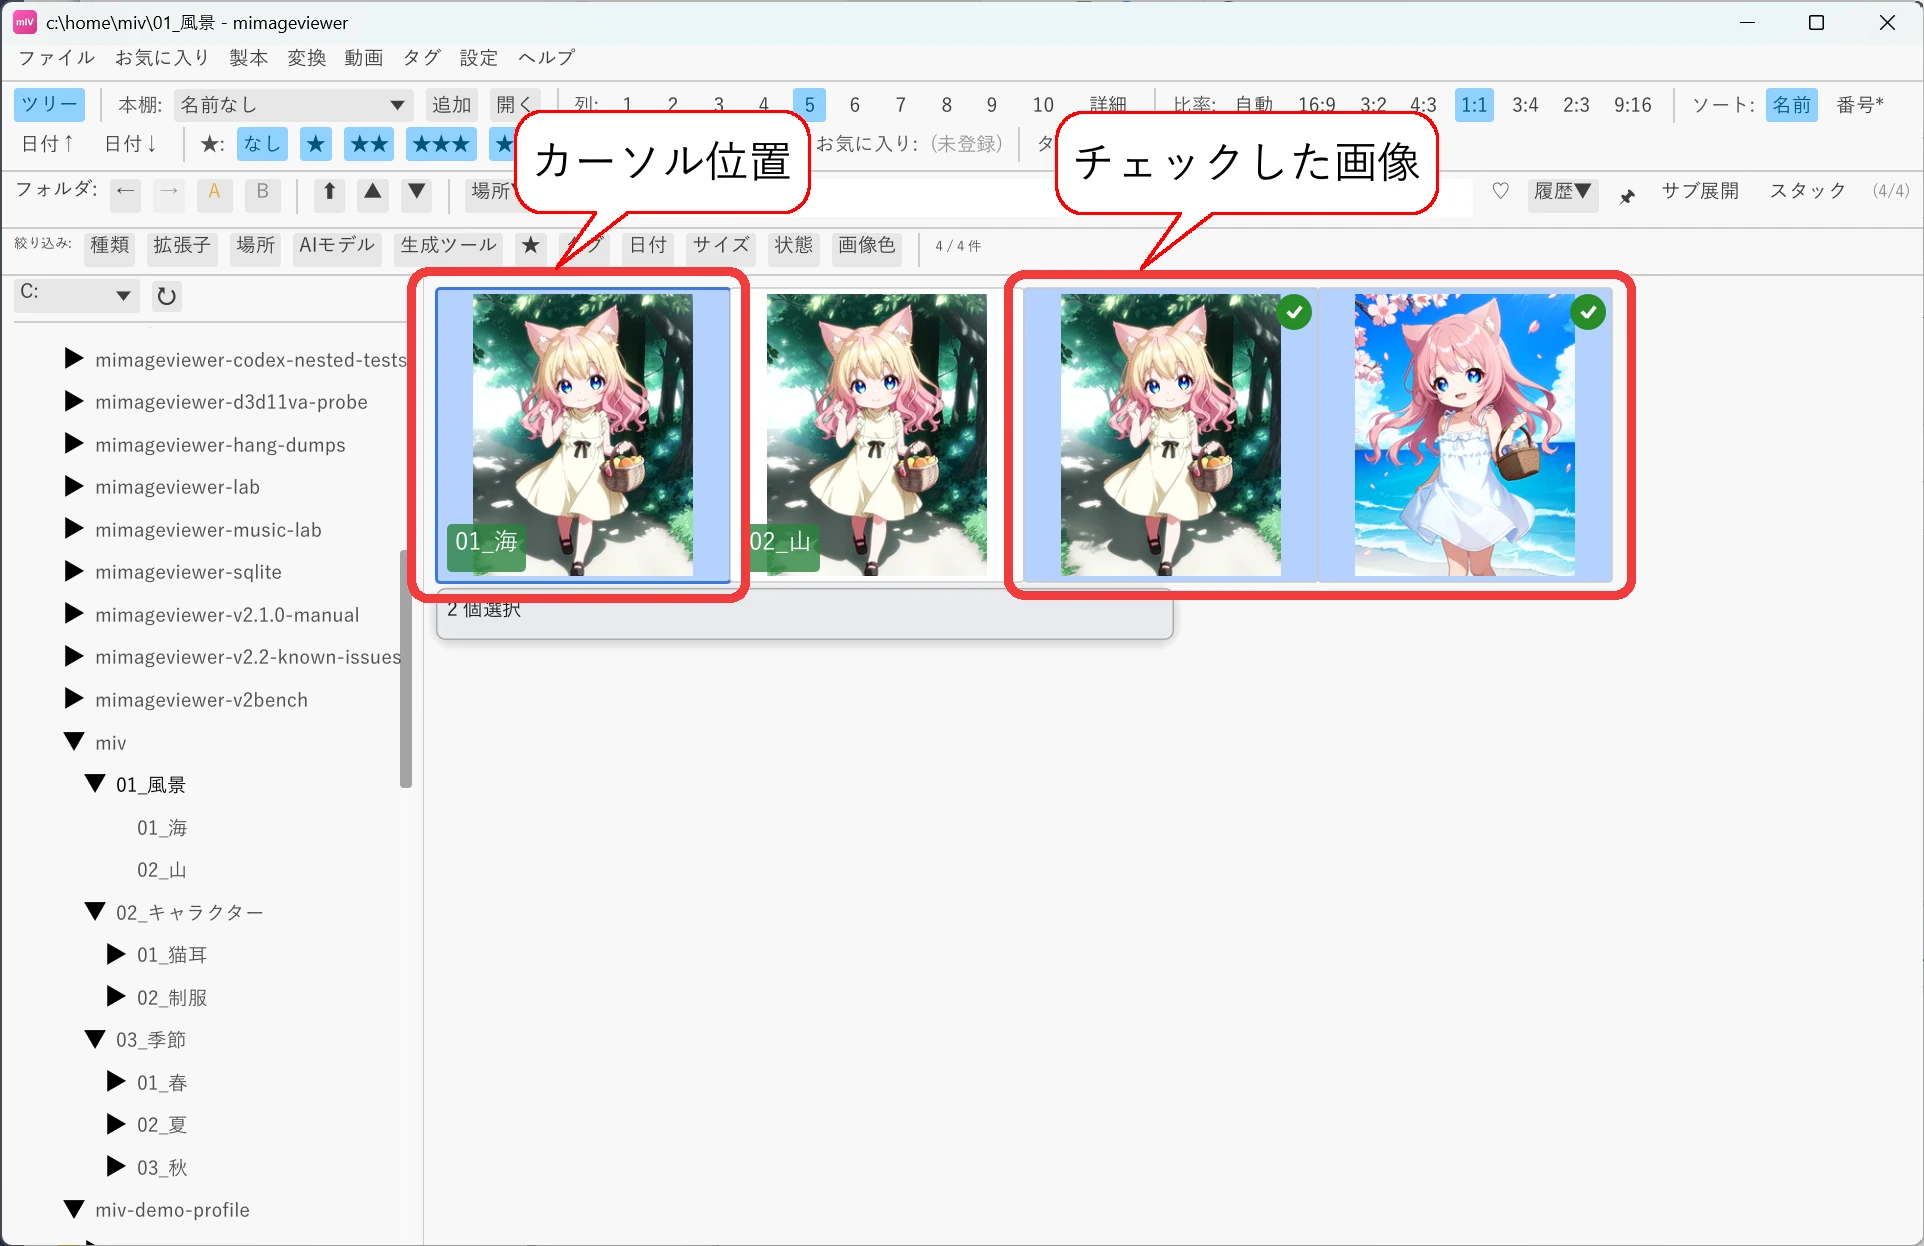
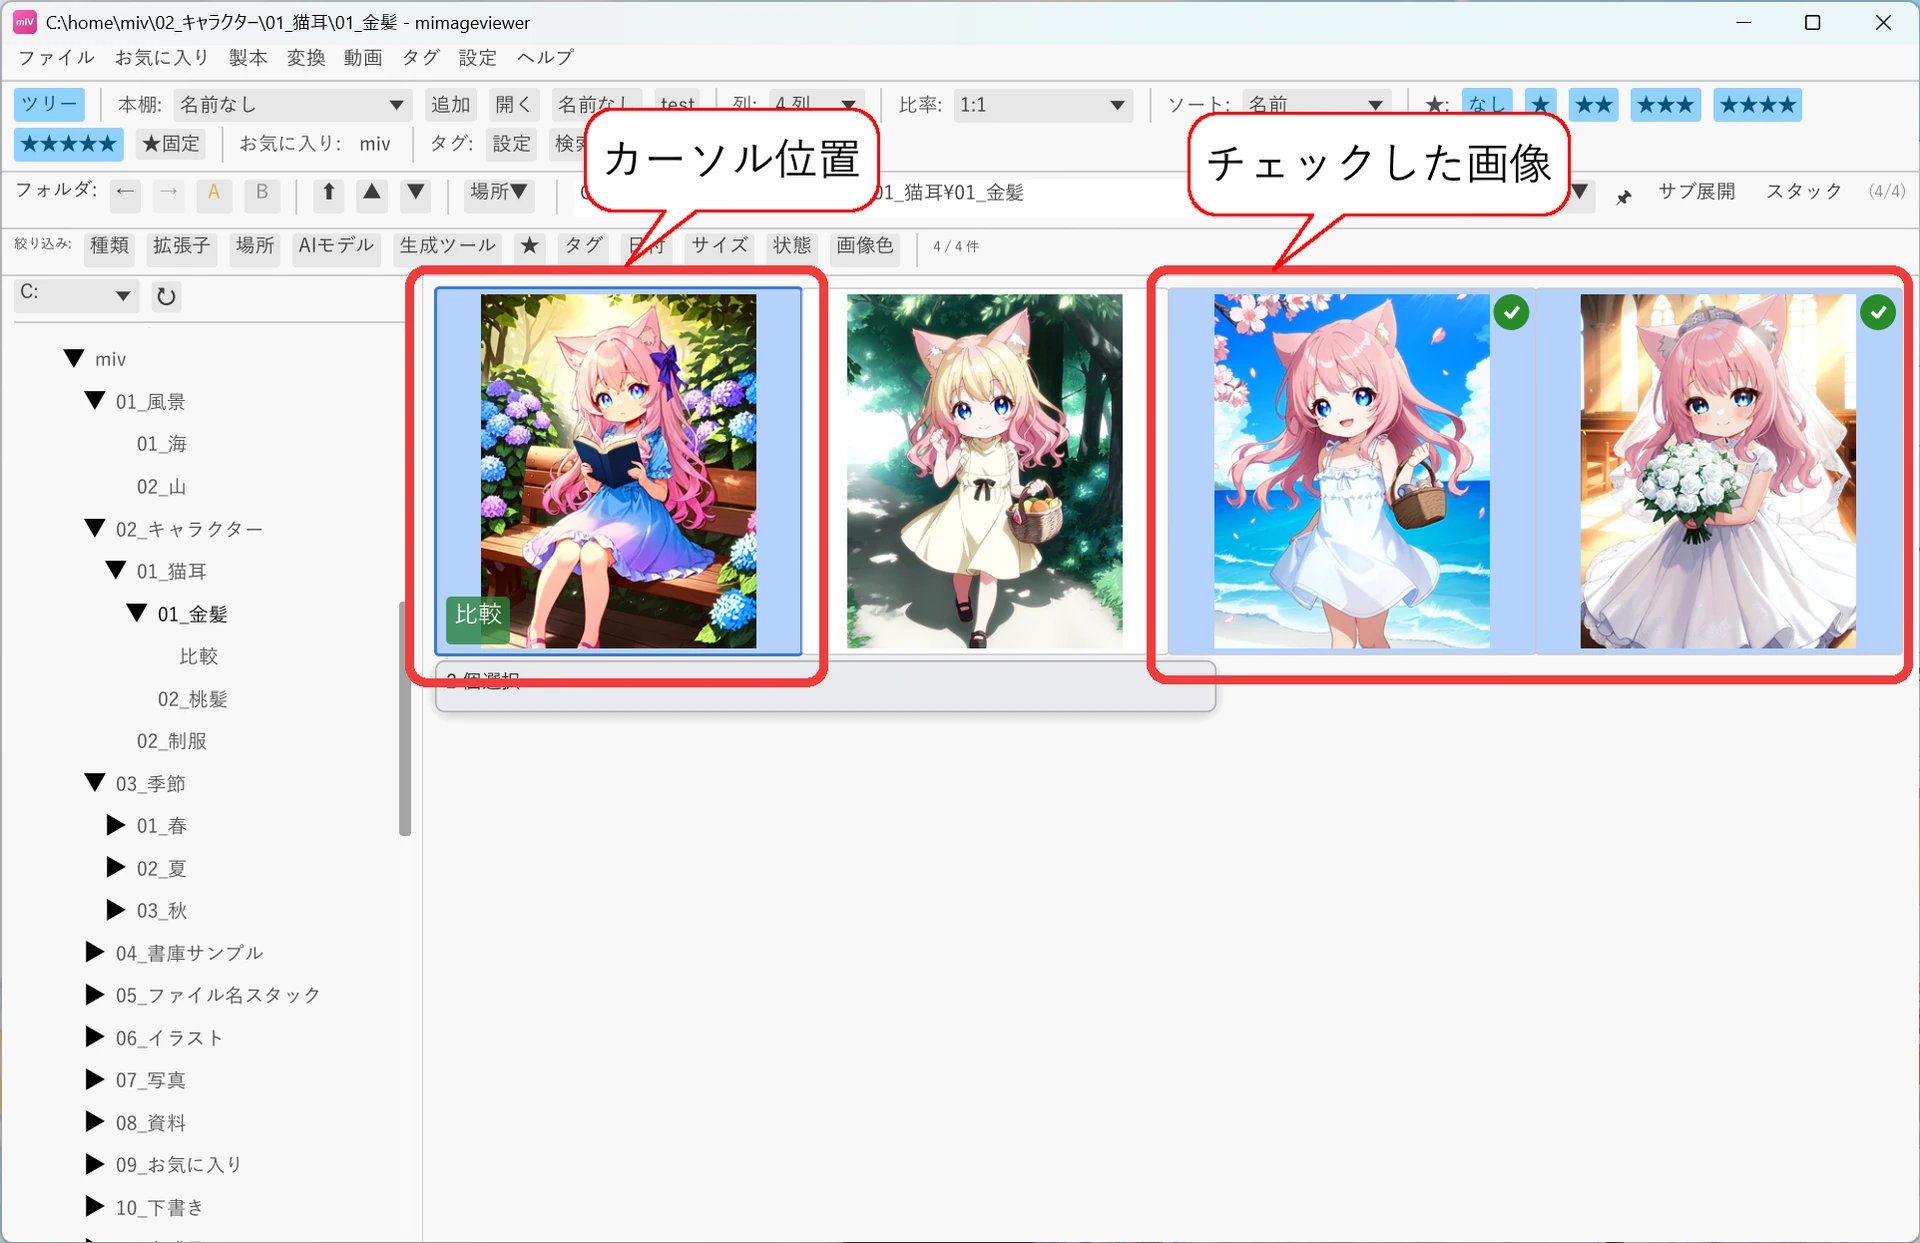
docs(manual): ツリー写り込みスクショを差し替え + バックログ追記
- tut-first-run-2 / tut-navigation-2 を撮り直し版に差し替え。左のフォルダツリーが
  サンプルフォルダだけになり、作業フォルダ名・データプロファイル内部・版番号の
  写り込みを解消 (チュートリアル全体レビュー Codex Sol 指摘対応)。
- next-release-backlog: UI 文字列/内部パス露出 (1.19) と注釈オブジェクトの
  整列・配置 (1.18) を追記。

diff --git a/docs/next-release-backlog.md b/docs/next-release-backlog.md
@@ -147,7 +147,79 @@
   (externalize + 翻訳 + QA 工程)。QA ツールは日本語バグにも効くため単独で投資回収がある。
 - 優先度: P2 candidate (QA ツール)。英語対応は QA ツール整備後に再判断 (現時点は保留)。
 
-## 2. フォルダツリーペイン
+### 1.18 注釈オブジェクトの整列・配置 (align / distribute) + スマートガイド
+
+- 出典: ユーザー要望 (2026-07-15)。テキスト注釈ツール (Ctrl+T、comic) で複数オブジェクトを
+  PowerPoint 的に整列・等間隔配置し、ドラッグ中のスナップ/ガイドで「綺麗に配置」しやすくする。
+  他ツール調査: 整列 6 種は PowerPoint/Illustrator/Figma 共通。distribute は PowerPoint/Figma が
+  「隙間均等 (両端固定)」既定、Illustrator は「中心/軸均等」と「隙間均等」を分離。整列基準は
+  PowerPoint の「選択物基準 / スライド基準」トグルが定番。
+- 正本ドキュメント: 着手時に本エントリを `docs/annotation-align-distribute-plan.md` へ起こして
+  詳細設計する。注釈サブシステムの契約は [comic-integration-plan.md](comic-integration-plan.md) /
+  [annotation-shapes-plan.md](annotation-shapes-plan.md)。
+
+- **前提機能 = 複数選択 (本機能の土台、追加コストの主)**: 現状は単一選択のみ
+  (`text_selected: Option<u64>`, src/app.rs)。以下を追加する:
+  - キャンバス: Ctrl+クリック=トグル / Shift+クリック=追加 / 空き領域ドラッグ=矩形囲み選択
+    (既存の pan/zoom ジェスチャとの共存整理が要)。
+  - 一覧 (`object_list_rows_ui` src/ui_text.rs): Ctrl+クリック=トグル / Shift+クリック=範囲。
+  - 選択状態を順序付き集合 (`Vec<u64>`) へ拡張。複数選択中は各オブジェクトに選択枠を描画。
+  - 複数まとめてドラッグ移動 (`translate_object` src/ui_text.rs:823 をループ。MessageWindow は
+    移動後 `position=Free` にする既存注意点を踏襲)。
+  - 2 個以上選択時は右パネルに整列バーを表示 (単一選択は従来の個別編集のまま)。
+
+- **整列 6 種 (2 個以上で有効)** — pivot 平行移動のみ (サイズ/回転は不変)、移動は片軸だけ:
+  - 左端 / 左右中央 / 右端、上端 / 上下中央 / 下端。
+  - **基準は「選択物」「画像」をトグルで切替 (既定 = 選択物)**。画像基準は PowerPoint の
+    スライド基準相当で、キャプション/透かしを画像端・画像中央へ絶対配置するのに使う。
+    選択物基準は選択グループの bounding box に対して揃える (両者は選択中心≠画像中心のとき差が出る)。
+  - **揃える箱は「本体のみ (しっぽ除外)」**。しっぽ付き吹き出しは本体 (輪郭) の箱で揃える
+    (`object_bounds` はしっぽ先端を含むので、本体だけの箱を別途算出する)。効果 (袋文字/影/発光)・
+    飾りは箱に含めない (現状の選択枠と同基準で一貫。テキストはレイアウト箱基準なので v2.4.0 の
+    ink 中央補正と整合し、上寄り偏りは再発しない)。
+
+- **配置 2 種 (3 個以上で有効)** — 両端固定、移動は片軸のみ:
+  - 横方向に等間隔 / 縦方向に等間隔。
+  - **「中心を等間隔」と「隙間 (edge-to-edge) を等間隔」の 2 モードを用意**
+    (同サイズなら同結果、サイズ混在時に差が出る。中心 = ユーザー既定イメージ、隙間 = 見た目が整う)。
+
+- **スマートガイド / スナップ (ドラッグ中、規模大)**:
+  - ドラッグ中に他オブジェクトの端/中心と一致したらガイド線表示 + 吸着 (スナップ閾値)、
+    等間隔になる位置でヒント表示 (Figma/PowerPoint 相当)。
+  - 毎フレームの候補計算・スナップ閾値・ガイド描画・既存 pan/zoom/変形ハンドルとの優先順位を
+    設計で確定する。実機調整が多い部分。
+
+- **座標系・Undo**: canonical ソース画素空間で演算。整列/配置/複数ドラッグは既存の coalesce
+  経路 (`mark_comic_dirty` → `commit_comic_undo_on_settle`) に乗せて 1 操作 = 1 undo。
+
+- **UI 文言/グリフ**: 整列バーのアイコンは絵文字を使わず painter 自作 or 安全字形
+  (CLAUDE.md グリフ tofu ポリシー)。キー操作は v1 ではボタンのみ (keymap 化・矢印キー nudge は将来)。
+
+- **再利用できる既存部品**: `object_bounds` (回転込み AABB, src/ui_text.rs:576) /
+  `translate_object` (src/ui_text.rs:823) / 安定 id (`AnnotationObject.id: u64`) /
+  Undo coalesce (`comic_commit_pending` / `commit_comic_undo_on_settle`) / `comic_docs`。
+
+- **ドキュメント更新 (実装時)**: `htdocs/mimageviewer/manual/annotation.html`,
+  `htdocs/mimageviewer/index.html`, `docs/spec.md`。
+
+- 規模 / 優先度: **Large** (複数選択 = 中 + 整列/配置 = 小 + スマートガイド = 大)。P2 candidate。
+  段階実装推奨 (① 複数選択 → ② 整列/配置ボタン → ③ スマートガイド)。
+
+### 1.19 内部パス / UI 文字列の露出 (マニュアルスクショ QA 由来)
+
+- 出典: チュートリアル全体レビュー (2026-07-15、Codex Sol)。公開マニュアルのスクショ撮影中に
+  露出した、ユーザーには不要な内部表現。実害は軽微だが、見た目・国際公開/ストア審査の観点で
+  次回以降に整えたい。
+- 対象:
+  1. **Windows タイトルバーに内部仮想パスが出る**: サブフォルダ展開ビュー表示中に
+     `data\__subfolder_expansion__`、読書履歴ビュー表示中に `data\__reading_history__` が
+     タイトルバーへ出る。これらは実フォルダではない内部ビューの sentinel パス。タイトルバーには
+     ビュー名 (例:「サブフォルダ展開」「読書履歴」) を出すか、パスを省くのが望ましい。
+  2. **隠蔽加工パネルのヘルプ文言に `DB` 表記**: 左パネル下部のキー説明に「終了時はDB保存」。
+     内部語 `DB` を避け「終了時に保存」等へ (CLAUDE.md「UI 文字列」方針)。
+- 非対象 (誤検出と確認済み): お気に入りダイアログの「I/O 並列度」「バックグラウンドインデクサ」
+  「起動時の整合性チェック」は通常の索引ステータス表示で、隠す必要はない。
+- 優先度: P3 (表示上の体裁のみ)。
 
 ### 2.1 folder pane scan worker の thread 構成判断
 
@@ -281,4 +353,5 @@
 | 表示 / AI / 補正 | `docs/display-pipeline.md`, `docs/preset-and-adjustment.md` |
 | 詳細表示 / スマートフィルタ | `docs/details-view-and-filter-plan.md`, `CLAUDE.md` の UI / スクロール節 |
 | タグ / フルスクリーン右パネル / 動画 overlay | `docs/tag-catalog-redesign-plan.md`, `docs/display-pipeline.md`, `docs/video-architecture.md`, `docs/detached-viewer-implementation-plan.md` |
+| 注釈の整列・配置 / 複数選択 / スマートガイド | `docs/comic-integration-plan.md`, `docs/annotation-shapes-plan.md`, `docs/keymap-spec.md` |
 | リリース / 依存更新 | `CLAUDE.md` のリリース手順、各 native 依存管理節 |
